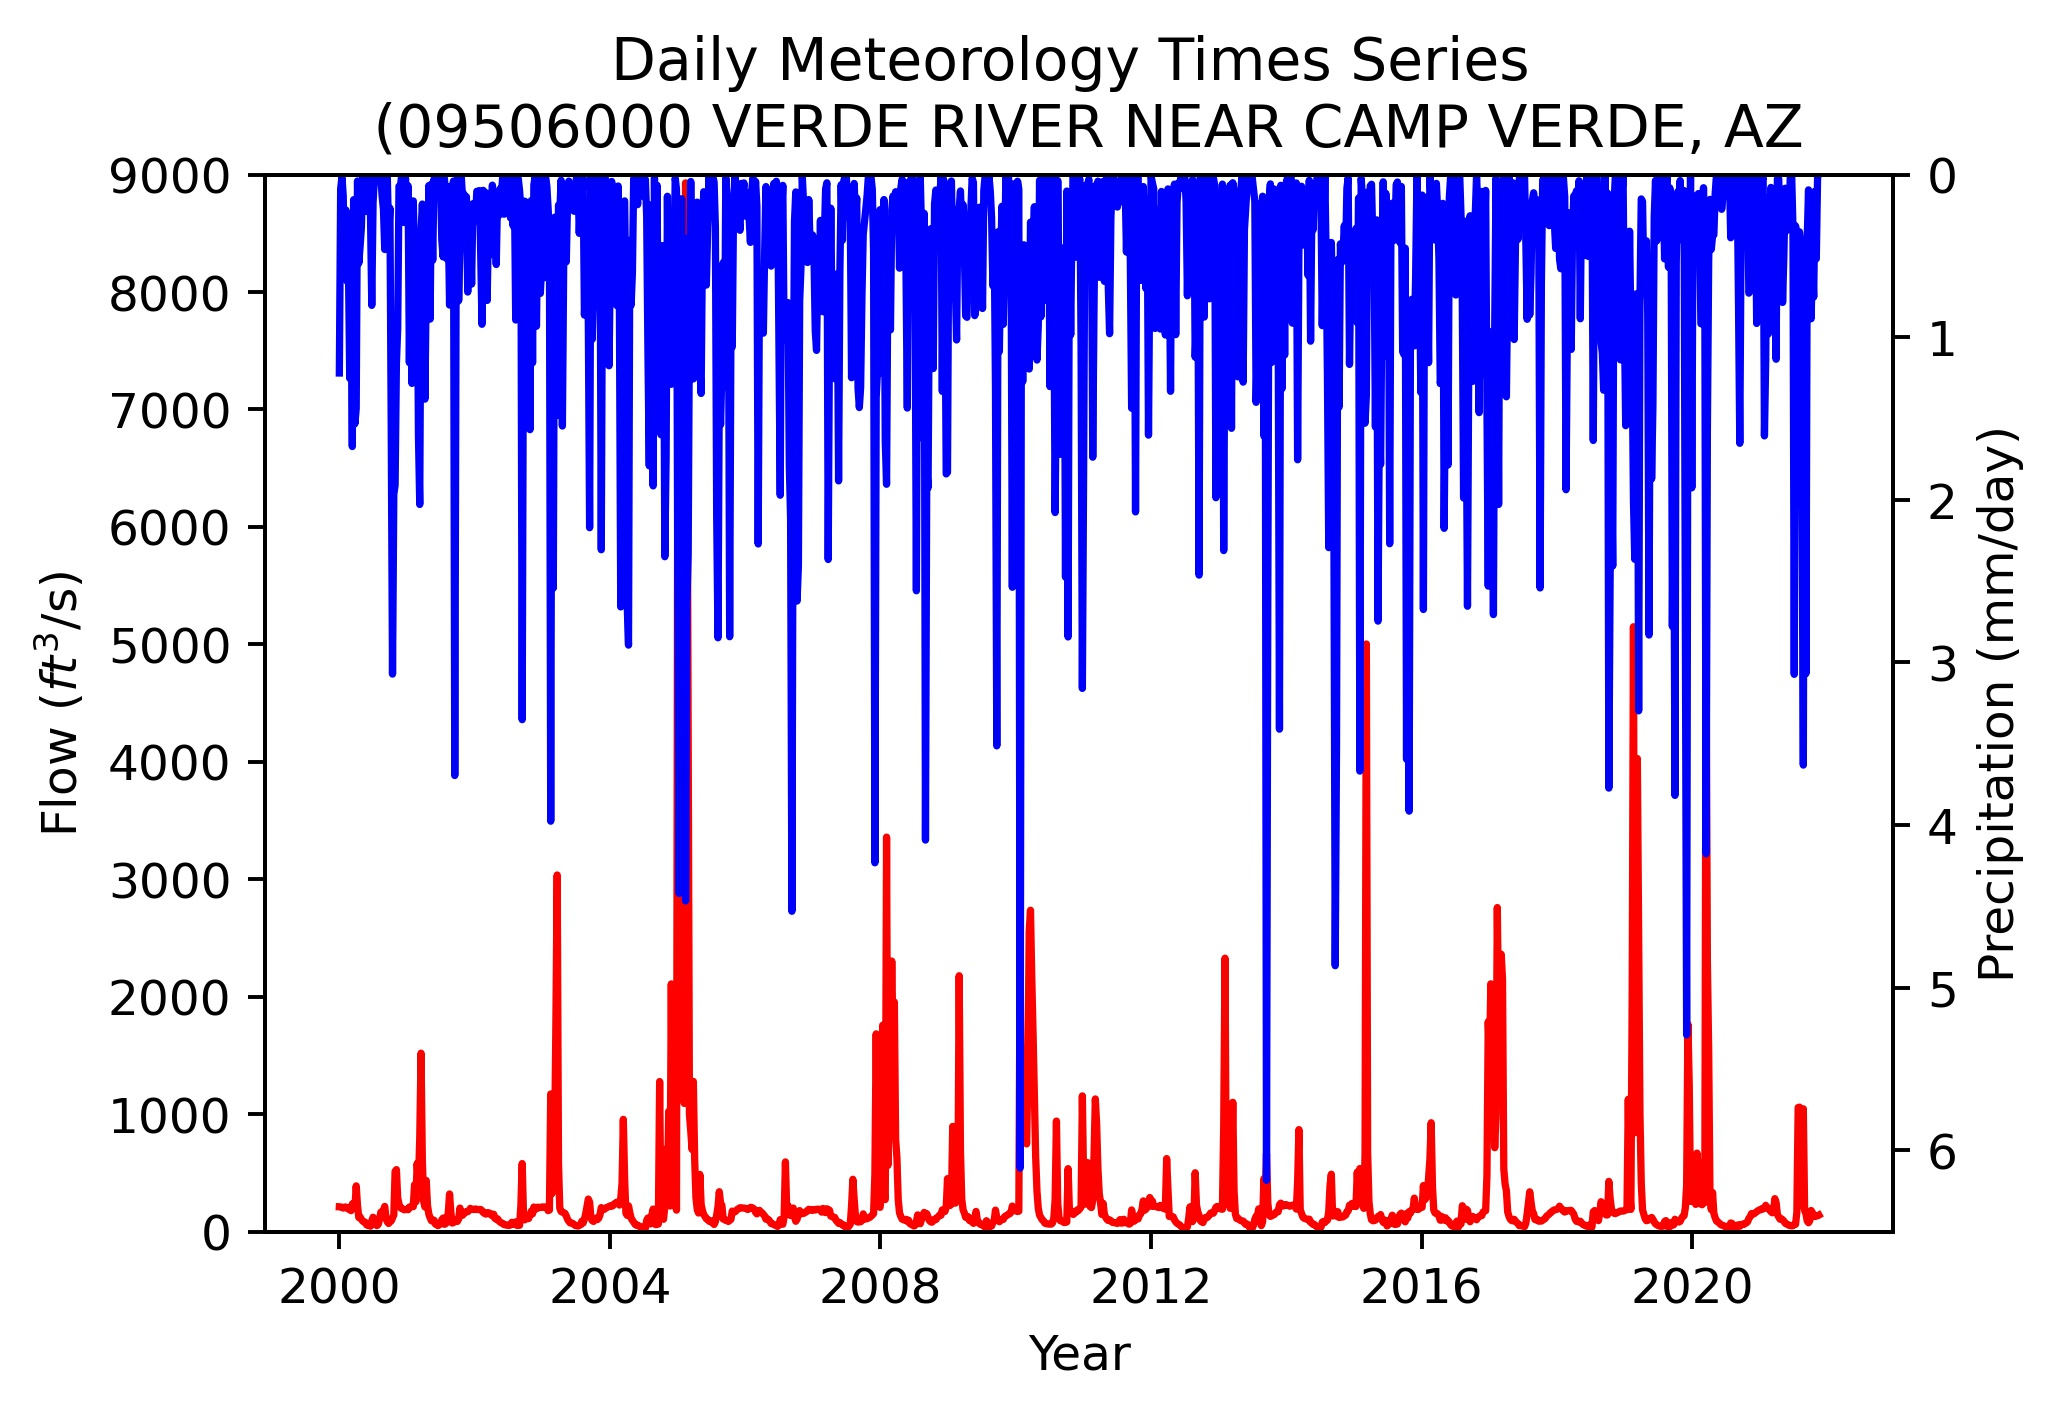
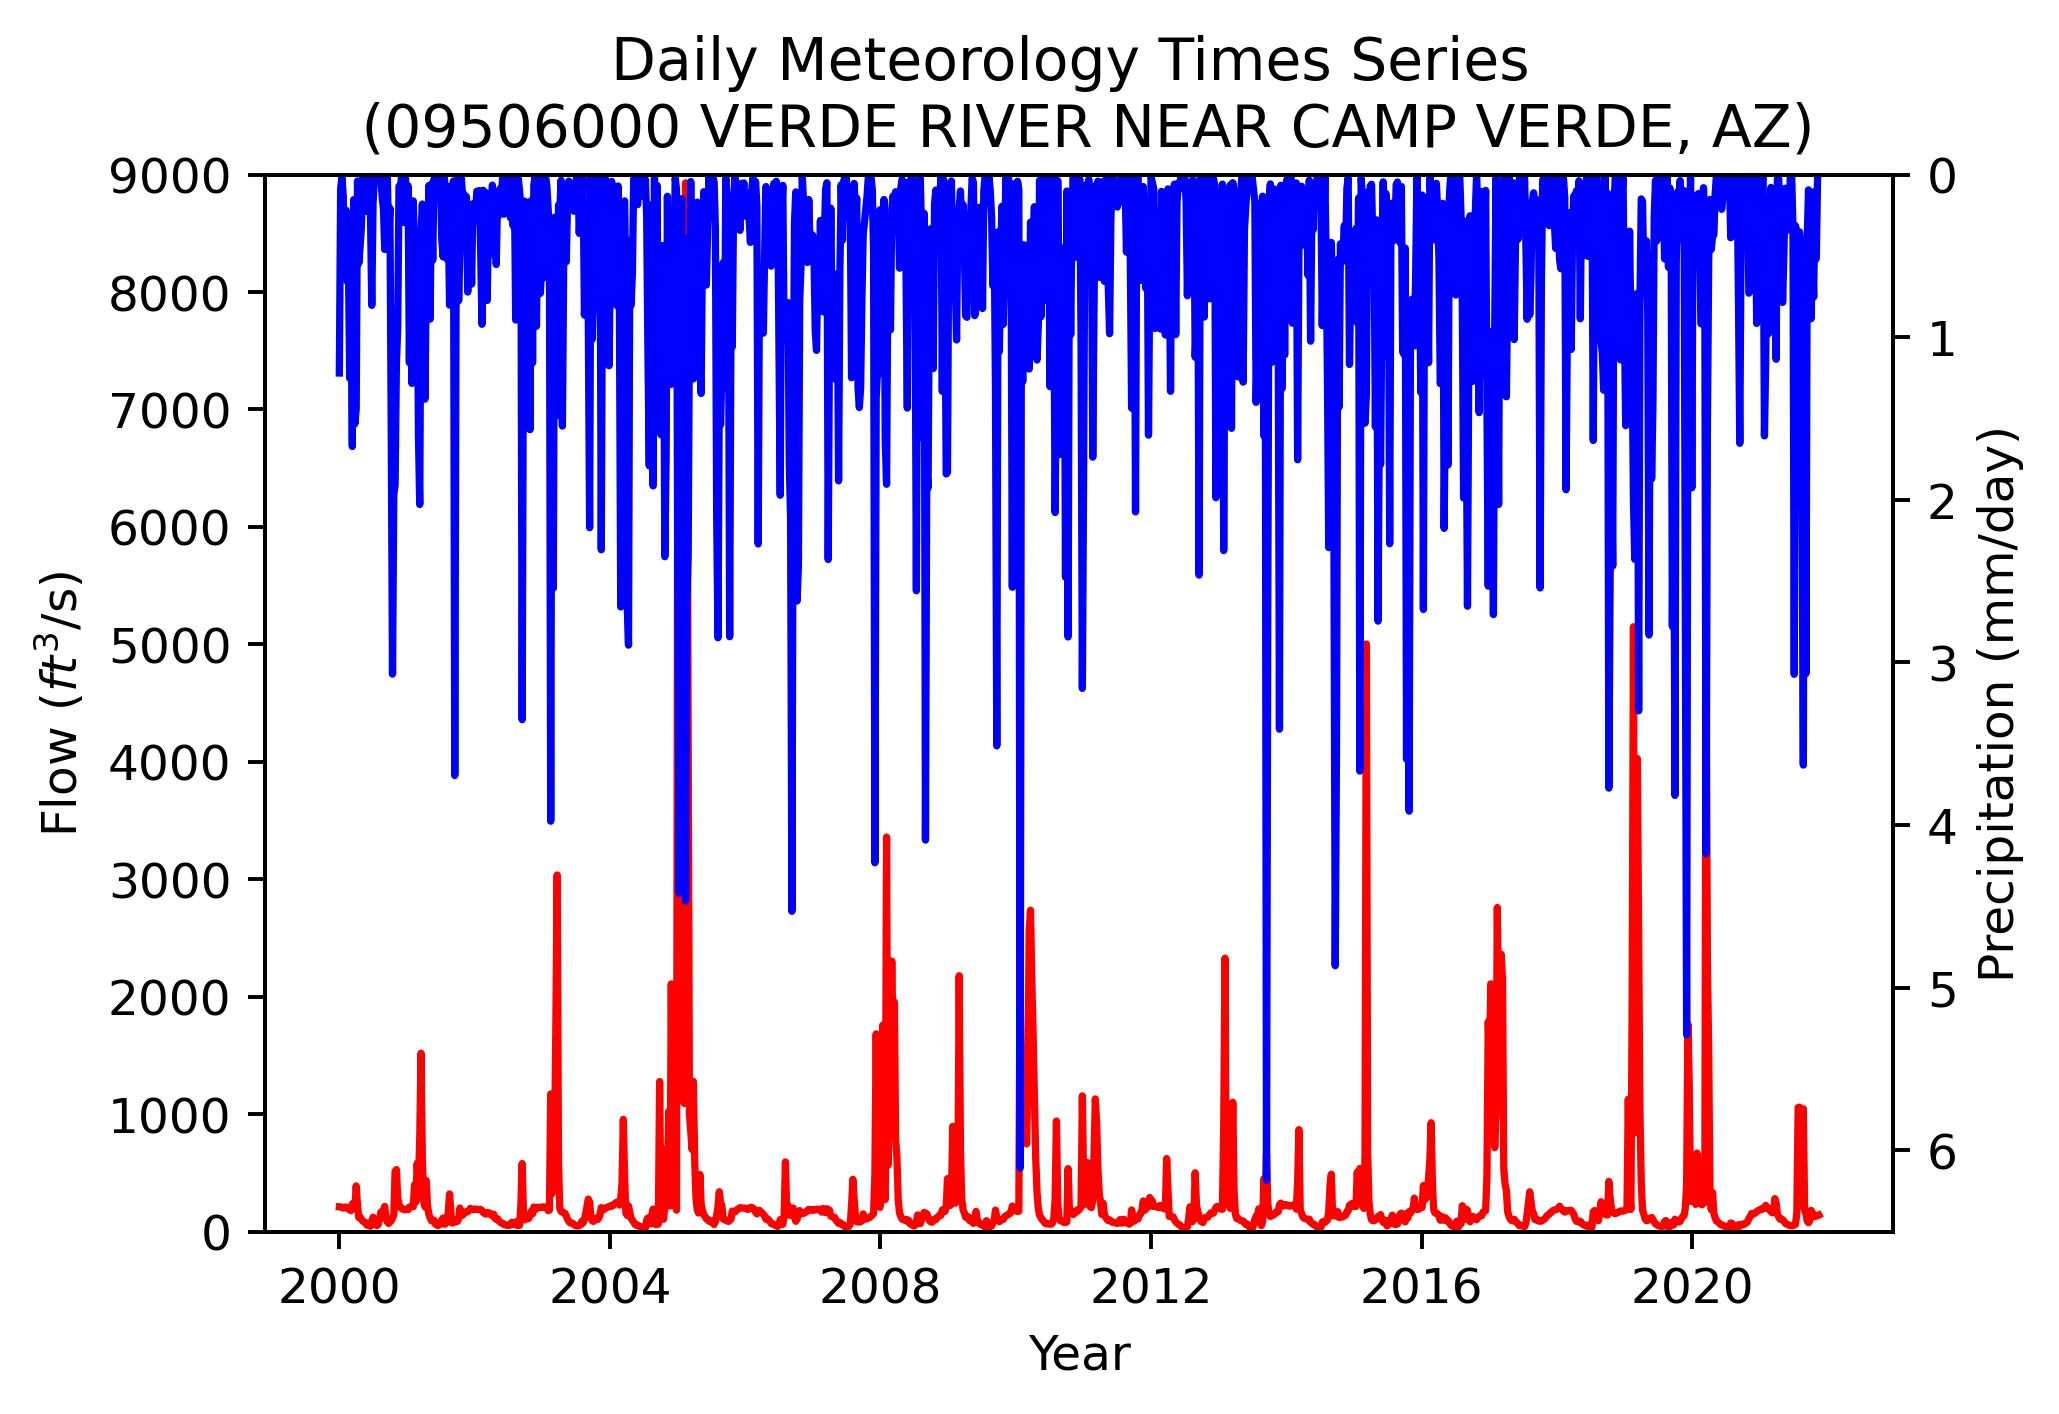
Modified lm.py to include function
lm.py was saved as lm_fxn-draft.py to attempt creating a linear regression model function that requires two sets of data and a precip forecast.

Changed region(s): [[0.1554, 0.0622, 0.8703, 0.1245]]

diff --git a/Forecast_Submissions/team-xkd_forecast/lm_fxn-draft.py b/Forecast_Submissions/team-xkd_forecast/lm_fxn-draft.py
@@ -1,0 +1,120 @@
+# %%
+import pandas as pd
+import numpy as np
+import matplotlib.pyplot as plt
+import xarray as xr
+import rioxarray
+import cartopy.crs as ccrs
+import cartopy.feature as cfeature
+import seaborn as sns
+import geopandas as gpd
+import fiona
+import shapely
+from netCDF4 import Dataset
+from   sklearn.linear_model import LinearRegression
+import datetime
+import dataretrieval.nwis as nwis
+import os
+
+# %%
+# Read in necessary data:
+# Precipitation rate [mm/s] netCDF data from HU1506 boundaries;
+# lat | 29N-40N, lon | 244E-254E
+prate_path = os.path.join('..', '..', 'data',
+                          'X70.164.250.222.314.12.56.9.nc')
+prate = xr.open_dataset(prate_path)
+
+# Get USGS streamflow data
+station_id = "09506000"
+strfdata = nwis.get_record(sites=station_id,
+                           service='dv',
+                           start='2000-01-01',
+                           end='2021-11-08',
+                           parameterCd='00060')
+strfdata.columns = ['flow', 'agency_cd', 'site_no']
+
+
+# %%
+# Function for linear regression model estimating one/two week flows
+def linreg_forecast(x, y, prate_forecast):
+    """Generate 1 & 2 week streamflow forecasts using precipitation forecasts
+
+    Parameters
+    ----------
+    x : numpy array
+        Refers to the data associated with the linear regression model's
+        indpendent variable. In this instance, the precipitation.
+    y : numpy array
+        Refers to the data associated with the linear regression model's
+        dependent variable. In this instance, the observed stream flow.
+    prate_forecast : float value
+        The forecasted precipitation quantity [mm] for a location near
+        the headwaters of the Verde River. Refer to any weather forecast for an
+        estimated forecast value. In this instance, weather station at
+        Love Field, Prescott, AZ.
+
+    Return
+    ----------
+    Printed linear regression model results and one/two-week forecasts
+    """
+    # Build a linear regression model: y=ax+b (flow=a*prcp+b)
+    model = LinearRegression()
+    model.fit(x, y)
+
+    # Results of the model
+    r_sq = model.score(x, y)
+    print('coefficient of determination:', np.round(r_sq, 2))
+
+    # print the intercept and the slope
+    print('intercept:', np.round(model.intercept_, 2))
+    print('slope:', np.round(model.coef_, 2))
+
+    # Prediction: precipitation input next week
+    # prate_forecast = 0
+    q_pred = model.intercept_ + model.coef_ * prate_forecast
+
+    print(" This week mean flow is ", np.round(q_pred, 1))
+    print(" Next week mean flow is ", np.round(q_pred, 1)-50.)
+
+    return
+
+
+# %%
+# Manipulate USGS and netCDF data into numpy arrays for lin_reg function:
+# Get the area averaged prate
+avg_prate = prate.mean(['lat', 'lon'])
+
+# Resample daily data into weekly mean for linear regression
+wk_prate = avg_prate.to_dataframe()
+wk_prate = wk_prate.resample('W').mean()
+
+# Convert precip data, [mm/s] to [mm/day]
+wk_prate['prate'] = wk_prate['prate']*3600.*24.
+
+# Generate weekly time series for precip and streamflow during 2000-2021
+W_strfdata = strfdata.resample('W').mean()
+
+# Name objects for use in linreg_forecast function
+x = wk_prate['prate'].values.reshape(-1, 1)
+y = W_strfdata['flow'].values
+
+# %%
+# Generate forecast using function
+linreg_forecast(x, y, 0)
+
+# %% Make a timeseries plot
+fig, ax = plt.subplots(figsize=(6, 4))
+ax.plot(W_strfdata.index, W_strfdata.flow, color='red')
+
+ax2 = ax.twinx()
+ax2.plot(wk_prate.index, wk_prate['prate'], color='blue')
+ax2.invert_yaxis()
+
+ax.set(title="Daily Meteorology Times Series \n (09506000 VERDE RIVER NEAR \
+CAMP VERDE, AZ)",  xlabel="Year", ylabel=r'Flow ($ft^3$/s)', ylim=(0, 9000))
+ax2.set(ylabel='Precipitation (mm/day)', ylim=(6.5, 0))
+
+plt.show()
+fig.savefig('prcp_flow.jpg', dpi=350, bbox_inches='tight')
+
+# %%
